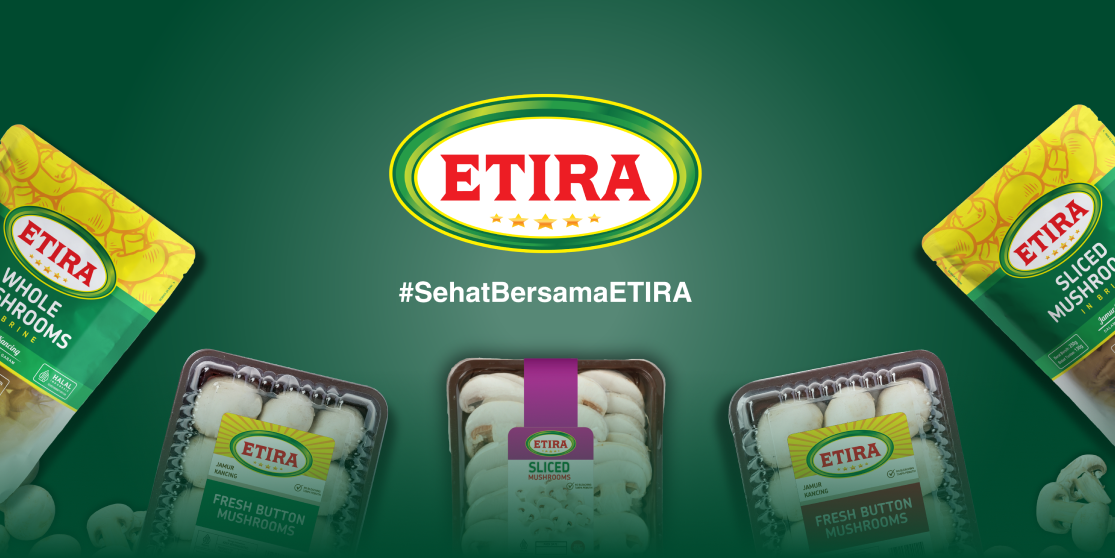
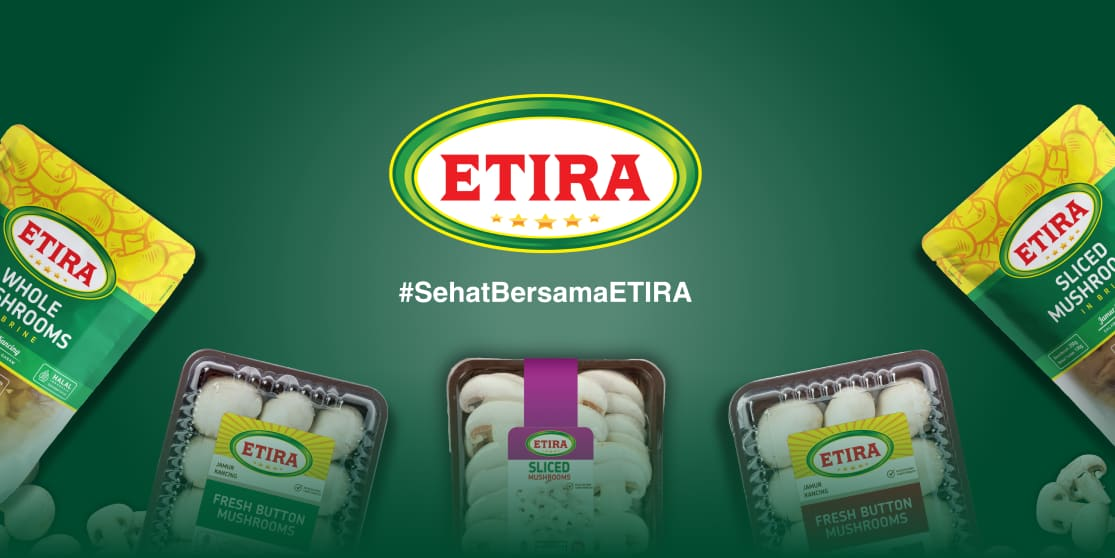
perf(aset): ringankan gambar publik tersisa, total jadi 0,5 MB
- hero-branding.jpg: enkode ulang mozjpeg q78 tanpa ganti dimensi, 561K jadi 60K
- etira-product-logo.png: sumber 2466px dipangkas jadi 320px karena dirender di
  kotak 64px, 211K jadi 14K
- etira.png diganti etira.webp (PNG-nya tidak bisa lebih kecil tanpa banding),
  577K jadi 32K; rujukan di TentangPageClient, ProductVisual, dan DESIGN_SYSTEM
  ikut diperbarui

diff --git a/components/ProductVisual.tsx b/components/ProductVisual.tsx
@@ -19,7 +19,7 @@ const FALLBACK_ICON = Sprout;
 // Banyak baris produk masih menyimpan gambar contoh di kolom imageUrl. Selama belum
 // diganti foto asli lewat admin, lebih baik ditampilkan panel komoditas yang jelas
 // disengaja daripada satu foto yang sama di semua kartu.
-const PLACEHOLDER_ASSETS = ['/hero-branding.jpg', '/og-image.png', '/etira.png'];
+const PLACEHOLDER_ASSETS = ['/hero-branding.jpg', '/og-image.png', '/etira.webp'];
 
 function hasRealPhoto(imageUrl: string | null) {
   if (!imageUrl) return false;

diff --git a/app/(main)/tentang/TentangPageClient.tsx b/app/(main)/tentang/TentangPageClient.tsx
@@ -44,7 +44,7 @@ export default function TentangPageClient() {
           {/* Left: Image */}
           <div className="relative aspect-[16/10] md:aspect-auto w-full min-h-[260px] md:min-h-full rounded-xl overflow-hidden border border-neutral-200 dark:border-neutral-700">
             <Image 
-              src="/etira.png" 
+              src="/etira.webp" 
               alt={t.tentang.facilityAlt}
               fill
               className="object-cover"

diff --git a/DESIGN_SYSTEM.md b/DESIGN_SYSTEM.md
@@ -349,7 +349,7 @@ foto asli**.
 
 - Kalau `imageUrl` benar-benar foto → `<Image fill sizes … className="object-cover object-center" />`.
 - Kalau `imageUrl` kosong **atau** menunjuk ke salah satu `PLACEHOLDER_ASSETS`
-  (`/hero-branding.jpg`, `/og-image.png`, `/etira.png`) → panel placeholder:
+  (`/hero-branding.jpg`, `/og-image.png`, `/etira.webp`) → panel placeholder:
   `bg-bg-subtle border border-border-subtle` + ikon Lucide besar (`w-1/3 max-w-24`,
   `strokeWidth 1.25`, `text-charcoal-muted`), `aria-hidden`.
 - Ikon dipilih dari nama/kategori: `beku|frozen|iqf` → `Snowflake`, `kaleng|canned` →
